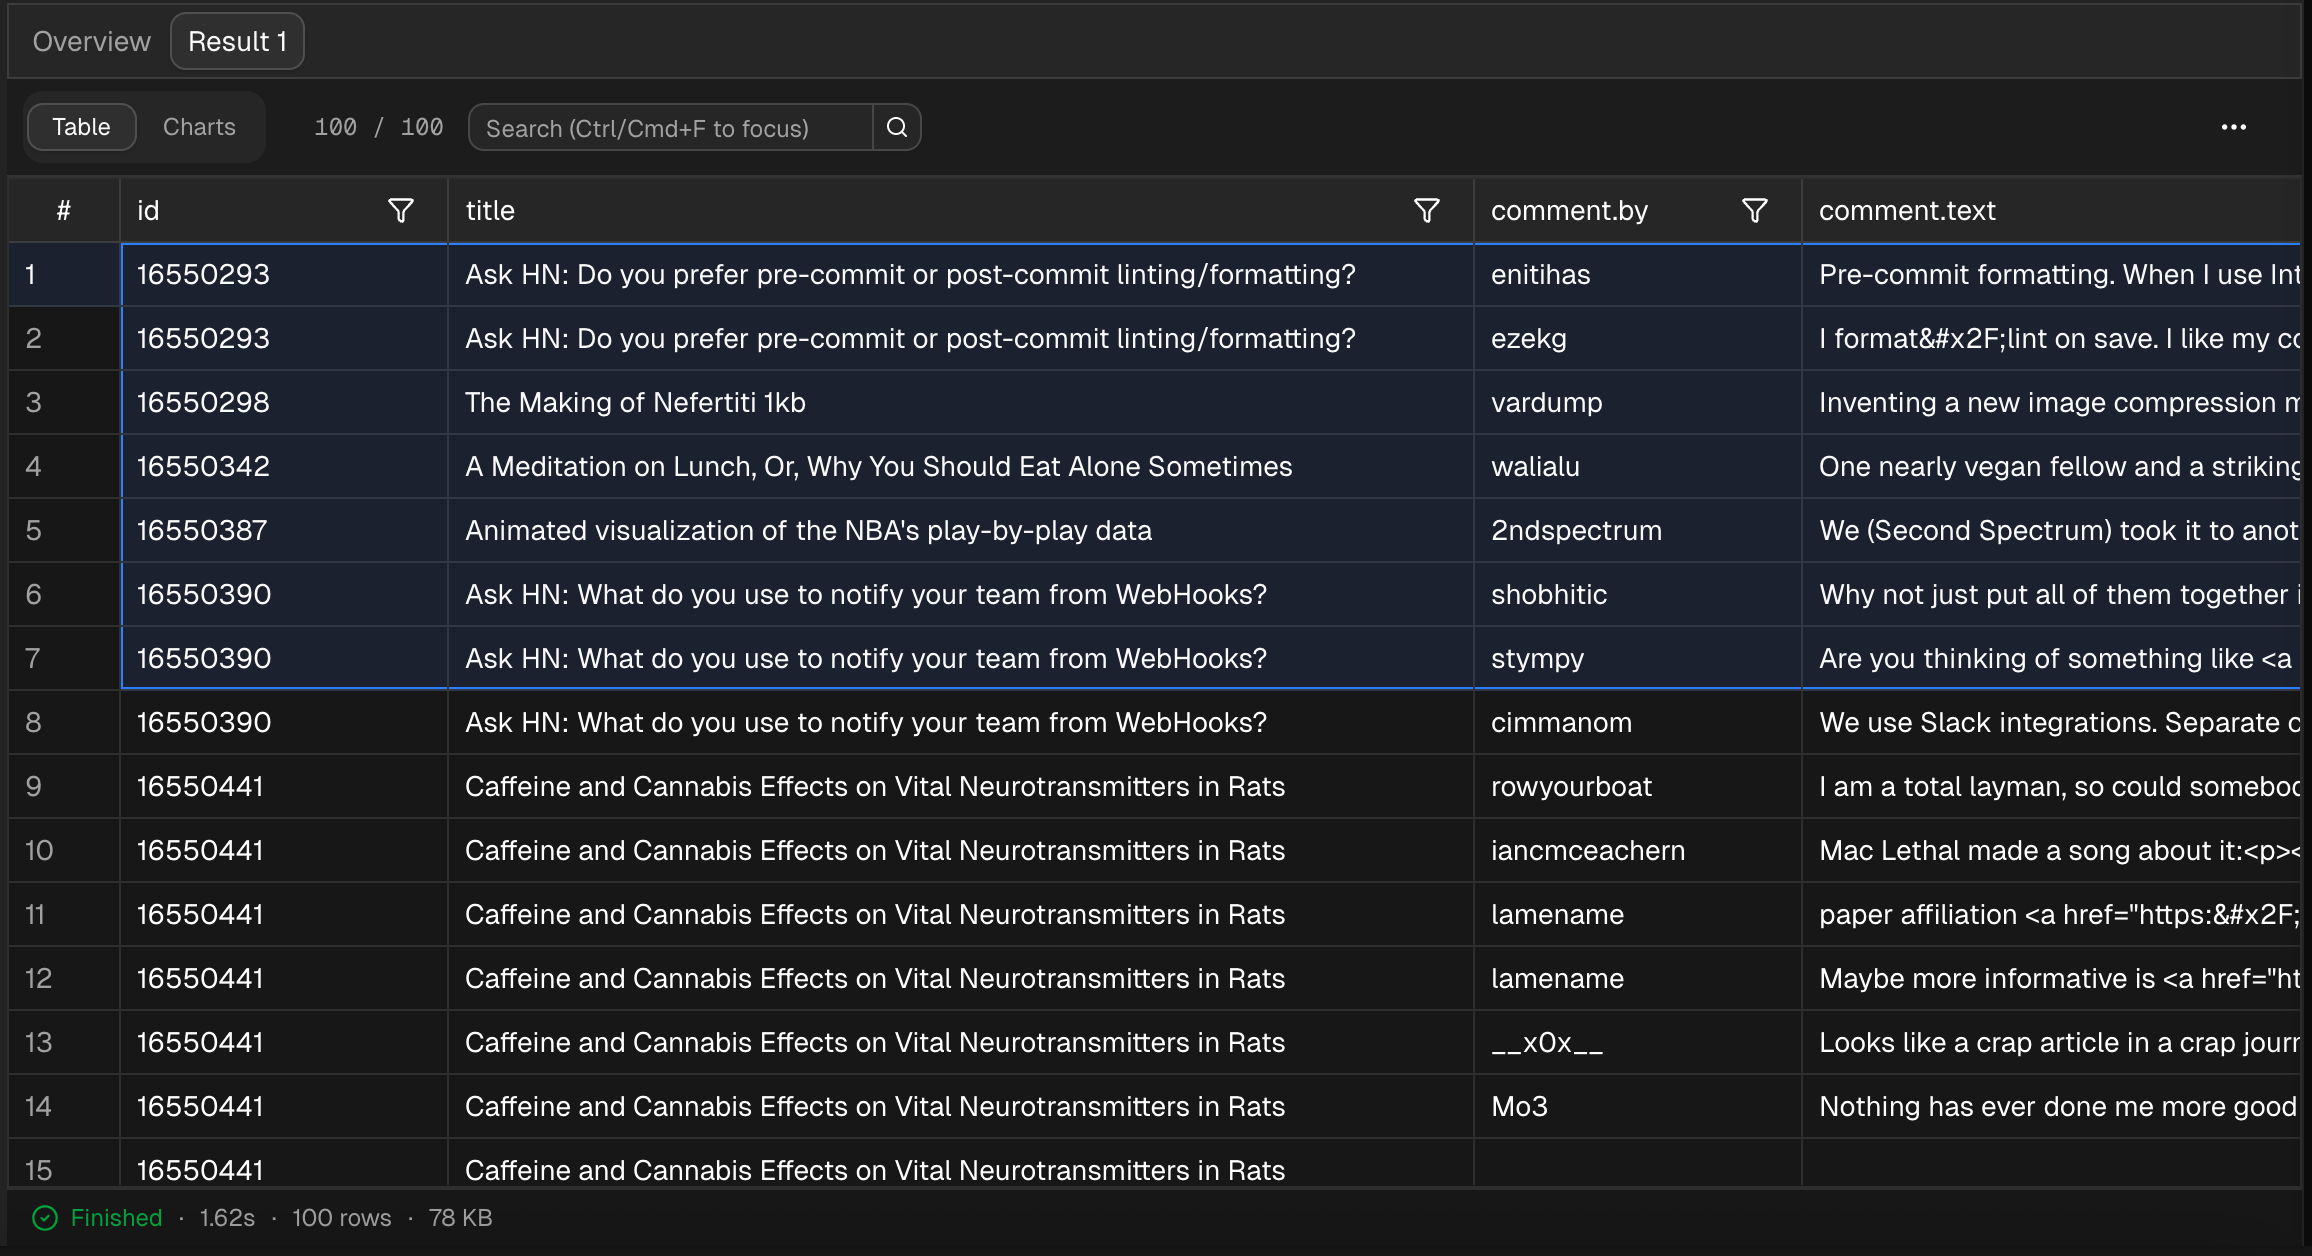
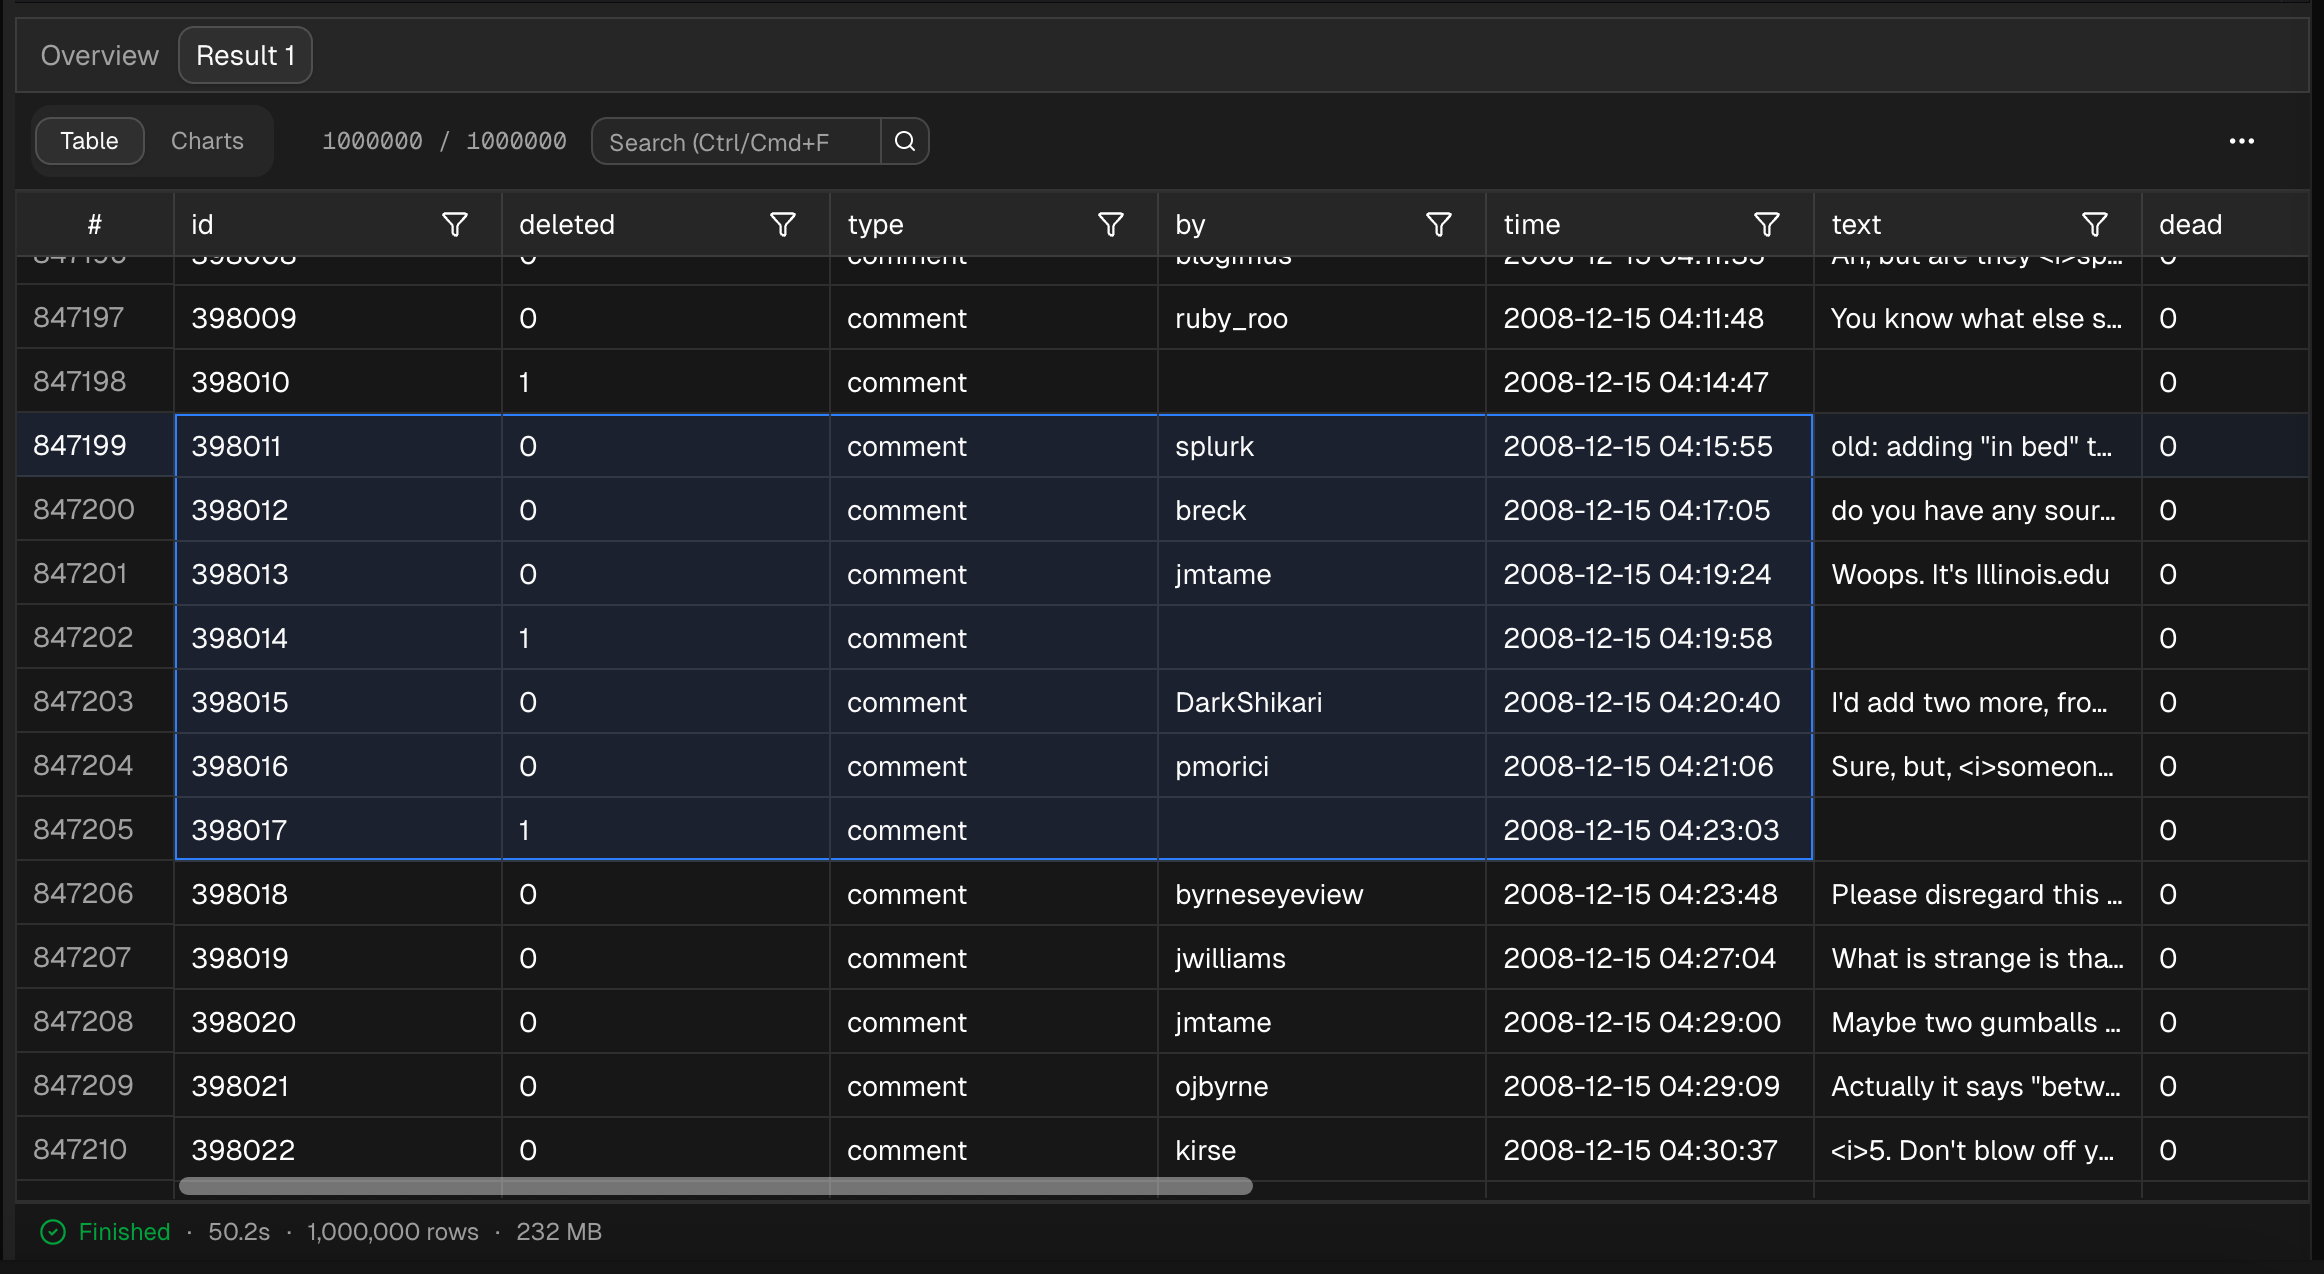
Add magnifier to result set product screenshot

Changed region(s): [[0.0, 0.1553, 0.9965, 0.9936], [0.0, 0.0, 0.4048, 0.1242], [0.4983, 0.3416, 0.5606, 0.4037]]

diff --git a/components/painted-product-frame.tsx b/components/painted-product-frame.tsx
@@ -9,6 +9,10 @@ type PaintedProductFrameProps = {
   alt: string;
   className?: string;
   imageClassName?: string;
+  magnifier?: {
+    zoom?: number;
+    className?: string;
+  };
   sizes?: string;
   width?: number;
   height?: number;
@@ -20,11 +24,15 @@ export function PaintedProductFrame({
   alt,
   className,
   imageClassName,
+  magnifier,
   sizes = "(max-width: 1023px) calc(100vw - 48px), 700px",
   width = 3024,
   height = 1730,
   priority = false,
 }: PaintedProductFrameProps) {
+  const magnifierZoom = magnifier?.zoom ?? 2.2;
+  const magnifierWidthRatio = 0.68;
+
   return (
     <figure
       className={cn(
@@ -40,18 +48,41 @@ export function PaintedProductFrame({
         sizes={sizes}
         className="-z-10 object-cover object-center dark:brightness-[0.42] dark:saturate-[0.78]"
       />
-      <Image
-        src={src}
-        alt={alt}
-        {...(typeof src === "string" ? { width, height } : {})}
-        priority={priority}
-        unoptimized
-        sizes={sizes}
-        className={cn(
-          "h-auto w-full rounded-[14px] shadow-[0_14px_30px_rgba(47,108,255,0.16)] dark:shadow-[0_14px_30px_rgba(0,0,0,0.48)]",
-          imageClassName,
-        )}
-      />
+      <div className="relative">
+        <Image
+          src={src}
+          alt={alt}
+          {...(typeof src === "string" ? { width, height } : {})}
+          priority={priority}
+          unoptimized
+          sizes={sizes}
+          className={cn(
+            "h-auto w-full rounded-[14px] shadow-[0_14px_30px_rgba(47,108,255,0.16)] dark:shadow-[0_14px_30px_rgba(0,0,0,0.48)]",
+            imageClassName,
+          )}
+        />
+        {magnifier ? (
+          <div
+            className={cn(
+              "pointer-events-none absolute bottom-0 left-0 z-10 aspect-[14/1] w-[68%] overflow-hidden rounded-[10px] rounded-bl-[14px] border border-white/25 bg-[#11100f] shadow-[0_12px_28px_rgba(0,0,0,0.42)] ring-1 ring-black/25",
+              magnifier.className,
+            )}
+            aria-hidden="true"
+          >
+            <Image
+              src={src}
+              alt=""
+              {...(typeof src === "string" ? { width, height } : {})}
+              unoptimized
+              sizes={sizes}
+              className="absolute -bottom-0.5 left-0 h-auto max-w-none lg:-bottom-1"
+              style={{
+                width: `${(magnifierZoom / magnifierWidthRatio) * 100}%`,
+              }}
+            />
+          </div>
+        ) : null}
+      </div>
     </figure>
   );
 }

diff --git a/app/[lang]/for-humans/page.tsx b/app/[lang]/for-humans/page.tsx
@@ -19,7 +19,7 @@ import AutoCompletePreview from "@/public/auto-complete.png";
 import ContextPreview from "@/public/context-focus.png";
 import HeroPreview from "@/public/hero.png";
 import WorkspacePreview from "@/public/images/core-features/dory-desktop-sql-console-sqlite-results.png";
-import LargeResultSetPreview from "@/public/large-resultset.png";
+import LargeResultSetPreview from "@/public/large-resultset-2.png";
 
 type PageProps = { params: Promise<{ lang: string }> };
 type TextItem = { title: string; description: string };
@@ -235,6 +235,7 @@ export default async function ForHumansPage({ params }: PageProps) {
                 alt={t("agentHome.humans.results.imageAlt")}
                 sizes="(max-width: 1023px) calc(100vw - 72px), 700px"
                 className="lg:order-1"
+                magnifier={{ zoom: 1.8 }}
               />
             </div>
           </section>

diff --git a/design-qa.md b/design-qa.md
@@ -5,6 +5,7 @@
   - Workspace narrative specification: approved “For Humans Section 3：统一 Workspace 叙事” implementation plan.
   - Workspace product screenshot: `/Users/jeffrey/Documents/Code/Dory/www/public/images/core-features/dory-desktop-sql-console-sqlite-results.png`
   - Large-result source screenshot: `/Users/jeffrey/Documents/Code/Dory/www/public/large-resultset.png` (2312 × 1802 px).
+  - Magnifier source screenshot: `/Users/jeffrey/Documents/Code/Dory/www/public/large-resultset-2.png` (2324 × 1274 px).
   - Oil-painting treatment: `/var/folders/8t/5d4kjsy95pdb46sy3x204z8w0000gn/T/codex-clipboard-0e7e1354-5fe5-4ec5-a188-27555ff0099f.png`
 - Reusable background asset: `/Users/jeffrey/Documents/Code/Dory/www/public/product-oil-backdrop.png`
 - Implementation screenshots:
@@ -15,9 +16,23 @@
   - Workspace mobile screenshot order: `/tmp/dory-workspace-section-mobile-image.png`
   - Large-result desktop: `/tmp/dory-large-resultset-desktop.png` (1280 × 900 px, 1280 × 900 CSS px, device scale 1).
   - Large-result mobile: `/tmp/dory-large-resultset-mobile.png` (390 × 844 px, 390 × 844 CSS px, device scale 1).
+  - Magnifier desktop: `/tmp/dory-large-resultset-magnifier-desktop.png` (1280 × 900 px, 1280 × 900 CSS px, device scale 1).
+  - Magnifier mobile: `/tmp/dory-large-resultset-magnifier-mobile.png` (390 × 844 px, 390 × 844 CSS px, device scale 1).
+  - Flush magnifier desktop: `/tmp/dory-large-resultset-magnifier-flush-desktop.png` (1280 × 900 px, 1280 × 900 CSS px, device scale 1).
+  - Status-only magnifier desktop: `/tmp/dory-resultset-status-only-desktop.png` (1280 × 900 px, 1280 × 900 CSS px, device scale 1).
+  - Status-only magnifier mobile: `/tmp/dory-resultset-status-only-mobile.png` (390 × 844 px, 390 × 844 CSS px, device scale 1).
+  - Centered high-density status magnifier desktop: `/tmp/dory-resultset-status-centered-crisp-desktop.png` (1280 × 900 px, 1280 × 900 CSS px, device scale 1).
+  - Centered high-density status magnifier mobile: `/tmp/dory-resultset-status-centered-crisp-mobile.png` (390 × 844 px, 390 × 844 CSS px, device scale 1).
+  - Left-attached, vertically centered status magnifier desktop: `/tmp/dory-resultset-status-left-centered-desktop.png` (1280 × 900 px, 1280 × 900 CSS px, device scale 1).
+  - Left-attached, vertically centered status magnifier mobile: `/tmp/dory-resultset-status-left-centered-mobile.png` (390 × 844 px, 390 × 844 CSS px, device scale 1).
 - Combined focused comparison: `/tmp/dory-second-act-frame-comparison.png`
 - Workspace source/implementation comparison: `/tmp/dory-workspace-section-comparison.png`
 - Large-result source/implementation comparison: `/tmp/dory-large-resultset-comparison.png`
+- Magnifier source/implementation comparison: `/tmp/dory-large-resultset-magnifier-comparison.png`
+- Flush magnifier source/implementation comparison: `/tmp/dory-large-resultset-magnifier-flush-comparison.png`
+- Status-only magnifier source/implementation comparison: `/tmp/dory-resultset-status-only-comparison.png`
+- Centered high-density magnifier source/implementation comparison: `/tmp/dory-resultset-status-centered-crisp-comparison.png`
+- Left-attached magnifier source/implementation comparison: `/tmp/dory-resultset-status-left-centered-comparison.png`
 - Viewports:
   - Desktop: 1280 × 720 CSS px at device scale 1.
   - Mobile: 390 × 844 CSS px at device scale 1.
@@ -34,6 +49,14 @@ The second-act desktop capture shows the approved mirrored composition: a 60% re
 `/tmp/dory-workspace-section-comparison.png` places the source Dory Workspace screenshot beside the rendered Section 3. The implementation preserves the complete SQL editor, result grid, sidebars, and native aspect ratio while adding only the shared painted frame around the image.
 
 `/tmp/dory-large-resultset-comparison.png` places the newly supplied one-million-row result screenshot beside the rendered Result Set Engine section. The source is scaled proportionally from 2312 × 1802 into the existing painted frame; no crop, stretch, or replacement UI is introduced.
+
+`/tmp/dory-large-resultset-magnifier-comparison.png` places the replacement result screenshot beside the rendered section. The main image preserves the complete source, while the lower-left inset reuses the same source at approximately 2.2× and exposes the authentic `1,000,000 rows · 232 MB` status line.
+
+`/tmp/dory-resultset-status-only-comparison.png` confirms that the 2.2× lower-left crop now contains only the authentic bottom status bar. The source table rows and horizontal scrollbar remain visible in the main screenshot but are no longer duplicated inside the magnifier.
+
+`/tmp/dory-resultset-status-centered-crisp-comparison.png` confirms that the status content is centered inside the attached strip and remains faithful to the source. The 2324 px source is rendered across a 1138.05 px virtual image width, providing 2.04 source pixels per CSS pixel at desktop scale.
+
+`/tmp/dory-resultset-status-left-centered-comparison.png` confirms that the enlarged raster returns to the screenshot’s original left origin while its status text is vertically centered in the 30.85 px desktop strip.
 
 ## Fidelity surfaces
 
@@ -82,6 +105,36 @@ The earlier SQL Editor work removed the generic black screenshot wrapper, elimin
 - Earlier finding: Next.js selected `w=750&q=75` variants for product screenshots displayed at approximately 635 px, producing only about 1.1× effective density in the DPR 1 preview and softening table text and thin UI lines.
 - Fix: product screenshots now bypass Next.js recompression and load their original PNG assets; the painted background remains optimized.
 - Post-fix evidence: at the same 635 px CSS width, the SQL completion screenshot renders at 2.02×, the million-row screenshot at 3.64×, and the Workspace screenshot at 4.76×. The browser reports raw static asset URLs, no generated `srcset`, zero horizontal overflow, and no console warnings or errors.
+
+### Iteration 11
+
+- Earlier finding: the million-row count was present only in the source screenshot’s small bottom status bar and was difficult to read at marketing-page scale.
+- Fix: switched the Result Set Engine to the replacement `large-resultset-2.png` and added an optional lower-left magnifier to `PaintedProductFrame`. The inset reuses the real source image and anchors its bottom-left crop at approximately 2.2×.
+- Post-fix evidence: the desktop capture shows the enlarged status line without hiding the main result table; the mobile capture retains a compact 216 × 49 px inset with zero horizontal overflow. Browser measurement reports 2.18× after pixel rounding and no console warnings or errors.
+
+### Iteration 12
+
+- Earlier finding: the magnifier extended beyond the screenshot’s lower-left edge into the painted frame.
+- Fix: aligned the inset to `left: 0` and `bottom: 0` inside the screenshot wrapper, with its lower-left radius matching the screenshot corner.
+- Post-fix evidence: browser measurement reports zero-pixel difference between the screenshot and magnifier on both left and bottom edges at desktop and mobile sizes. The focused comparison confirms the inset no longer protrudes; horizontal overflow and console warnings/errors remain at zero.
+
+### Iteration 13
+
+- Earlier finding: the 4.4:1 magnifier also repeated several data rows and the horizontal scrollbar, competing with the intended million-row status.
+- Fix: retained the approved 2.2× scale, 68% width, attached lower-left position, border, and shadow, while changing only the viewport ratio to 14:1 so the crop isolates the bottom status bar.
+- Post-fix evidence: `/tmp/dory-resultset-status-only-desktop.png` shows only `Finished · 50.2s · 1,000,000 rows · 232 MB` in the magnifier. `/tmp/dory-resultset-status-only-mobile.png` confirms the same crop with zero horizontal overflow; the browser console reports no warnings or errors.
+
+### Iteration 14
+
+- Earlier finding: the isolated status content remained left-heavy inside the strip, and the 2.2× visual scale reduced the effective desktop source density to about 1.67 pixels per CSS pixel.
+- Fix: reduced the visual scale to 1.8×, centered the authentic raster content with integer 32/64 px responsive offsets, and used integer bottom positioning instead of a transform to avoid subpixel raster placement.
+- Post-fix evidence: `/tmp/dory-resultset-status-centered-crisp-desktop.png` shows the status content centered horizontally and vertically. Browser measurements report 2.04× effective source density on desktop and 4.10× on mobile, an integer desktop x-position, zero mobile horizontal overflow, and no console warnings or errors.
+
+### Iteration 15
+
+- Earlier finding: horizontally centering the status content moved the enlarged crop away from the screenshot’s left edge, while the text still appeared slightly high within the narrow strip.
+- Fix: restored the enlarged raster to `left: 0` and moved it down by an additional 2 px at both responsive sizes, without changing the 1.8× high-density scale or the attached outer frame.
+- Post-fix evidence: browser measurements show the outer magnifier and main screenshot sharing the same x-coordinate at 68 px desktop and 36 px mobile. `/tmp/dory-resultset-status-left-centered-desktop.png` confirms the text is vertically centered; mobile remains free of horizontal overflow and the console reports no warnings or errors.
 
 ## Verification
 
